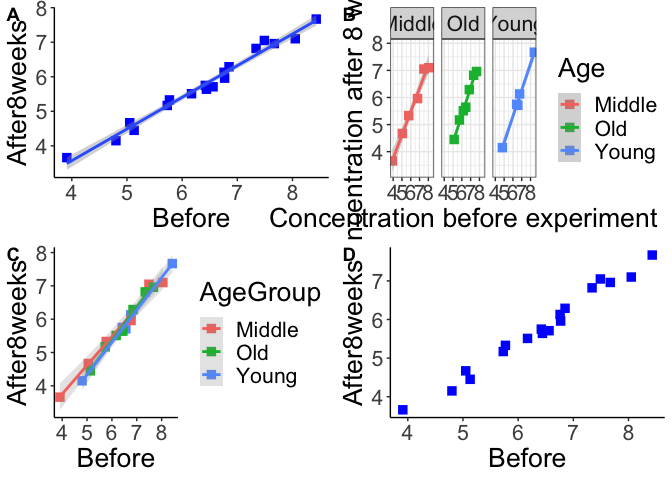
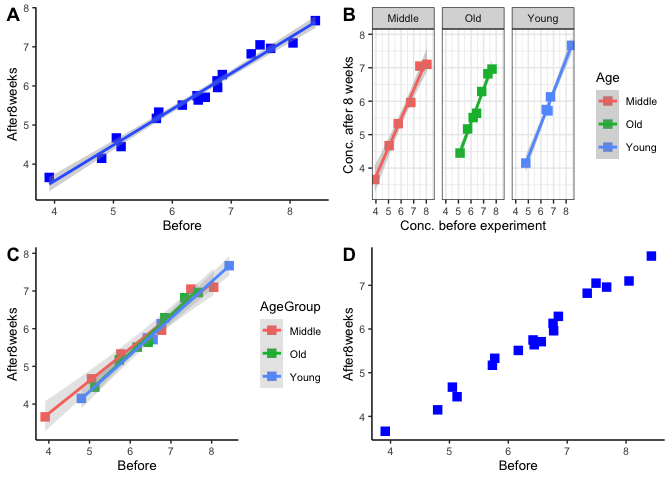
Class 12 update

Changed region(s): [[0.0, 0.0, 1.0, 0.5], [0.0, 0.5, 1.0, 1.0], [0.8438, 0.5625, 0.9688, 0.625]]

diff --git a/Class_12/Class_12.md b/Class_12/Class_12.md
@@ -166,20 +166,20 @@ named objects. These can be some of the plots we have generated so far:
 ``` r
 plot1 <- ggplot(data = data_chol, mapping = aes(x = Before, y = After8weeks)) +
   geom_point(color = 'blue', shape = 15, cex = 3) + theme_classic() + geom_smooth(method = 'lm') +
-  theme(text = element_text(size = 20))
+  theme(text = element_text(size = 10))
 
 plot2 <- ggplot(data = data_chol, mapping = aes(x = Before, y = After8weeks, color = AgeGroup)) +
   facet_wrap( ~ AgeGroup) +
   geom_point(shape = 15, cex = 3) + theme_bw() + geom_smooth(method = 'lm') +
-  labs(x = "Concentration before experiment", y = "Concentration after 8 weeks", color = "Age") +
-  theme(text = element_text(size = 20))
+  labs(x = "Conc. before experiment", y = "Conc. after 8 weeks", color = "Age") +
+  theme(text = element_text(size = 10))
 
 plot3 <- ggplot(data = data_chol, mapping = aes(x = Before, y = After8weeks, color = AgeGroup)) +
   geom_point(shape = 15, cex = 3) + theme_classic() + geom_smooth(method = 'lm', alpha = 0.25) +
-  theme(text = element_text(size = 20))
+  theme(text = element_text(size = 10))
 
 plot4 <- ggplot(data = data_chol, mapping = aes(x = Before, y = After8weeks)) +
-  geom_point(color = 'blue', shape = 15, cex = 3) + theme_classic() + theme(text = element_text(size = 20))
+  geom_point(color = 'blue', shape = 15, cex = 3) + theme_classic() + theme(text = element_text(size = 10))
 ```
 
 Now - produce a grid plot from the four subplots using the `ggarrange()`
